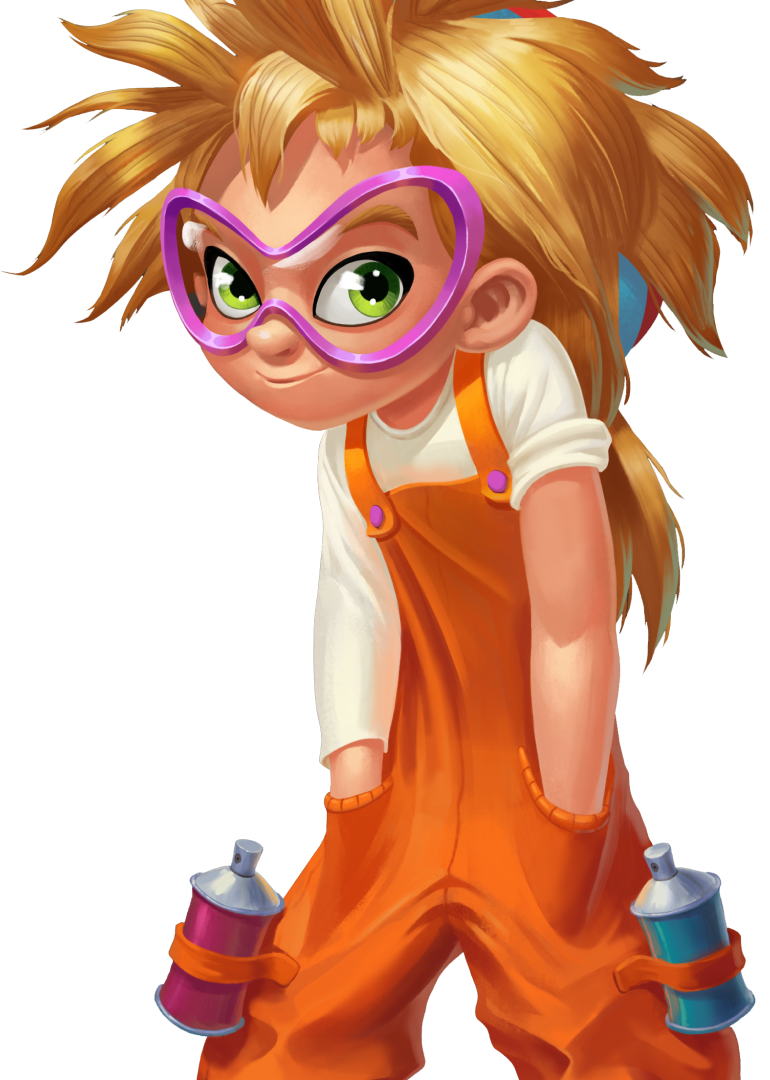
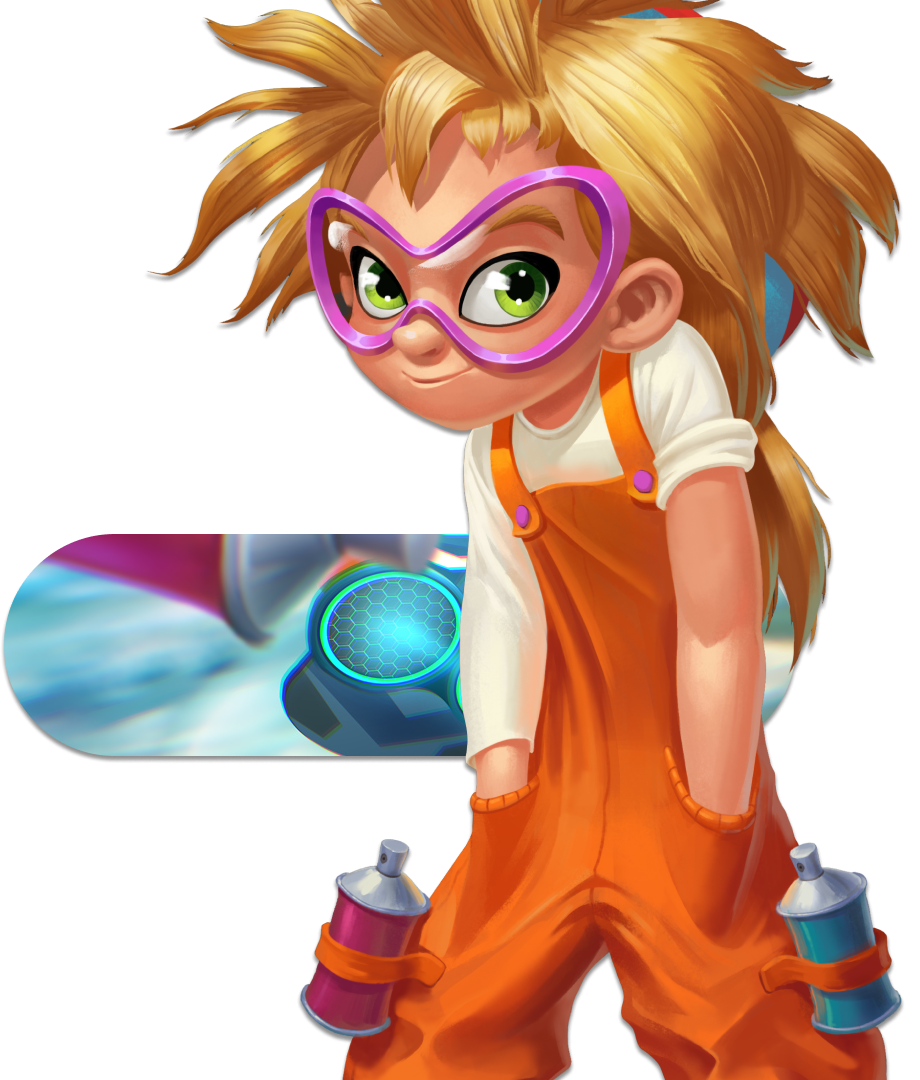
Complete team section

diff --git a/css/main.css b/css/main.css
@@ -892,7 +892,7 @@ img {
   border-color: #fff;
 }
 
-.main.even-section .menu-toggler-btn span {
+.main.even-section .js-open-menu-btn span {
   color: #4b4b4b;
 }
 
@@ -930,9 +930,25 @@ img {
   color: #4b4b4b;
 }
 
+.section:nth-child(even) .big-text {
+  color: #f3f9fb;
+}
+
 .section .pp-tableCell {
   display: block;
   width: unset;
+}
+
+.section::before {
+  content: "";
+  position: absolute;
+  top: 0;
+  bottom: 0;
+  right: 0;
+  left: 0;
+  background-repeat: no-repeat;
+  background-size: contain;
+  z-index: 2;
 }
 
 .section-top {
@@ -1056,17 +1072,46 @@ img {
   font-weight: 900;
 }
 
-#about {
+#about .big-text {
+  font-size: 220px;
+  color: #f3f9fb;
+  top: 60%;
+}
+
+#about::before {
   background-image: url("../img/about-bg.png");
   background-repeat: no-repeat;
   background-size: contain;
   background-position: center center;
 }
 
-#about .big-text {
-  font-size: 220px;
-  color: #f3f9fb;
-  top: 60%;
+#about .section-img {
+  right: 180px;
+}
+
+#team::before {
+  background-image: url("../img/team-bg.png");
+  background-repeat: no-repeat;
+  background-size: cover;
+  background-position: center center;
+}
+
+#team .section-img {
+  right: 225px;
+}
+
+#team .section-content {
+  max-width: 350px;
+}
+
+#team .play-btn {
+  position: absolute;
+  width: 120px;
+  height: 120px;
+  top: 54%;
+  left: 180px;
+  background-color: #fff;
+  border-radius: 50%;
 }
 
 .section-menu {
@@ -1090,7 +1135,7 @@ img {
   color: #fff;
 }
 
-.home {
+.home::before {
   background-image: url("../img/main-bg.png");
   background-repeat: no-repeat;
   background-size: contain;
@@ -1298,10 +1343,20 @@ img {
           align-items: center;
   width: 100%;
   max-width: 1780px;
+}
+
+.heroes__item::before {
+  content: "";
+  position: absolute;
+  top: 0;
+  bottom: 0;
+  right: 0;
+  left: 0;
   background-image: url("../img/hero-bg1.png");
   background-repeat: no-repeat;
   background-size: contain;
   background-position: center left 30%;
+  z-index: 2;
 }
 
 .heroes__item:nth-child(even) {
@@ -1317,7 +1372,7 @@ img {
   color: #f3f9fb;
 }
 
-.heroes__item:nth-child(2) {
+.heroes__item:nth-child(2)::before {
   background-image: url("../img/hero-bg2.png");
   background-position: center center;
 }
@@ -1326,7 +1381,7 @@ img {
   right: 225px;
 }
 
-.heroes__item:nth-child(3) {
+.heroes__item:nth-child(3)::before {
   background-image: url("../img/hero-bg3.png");
   background-position: center left 40%;
 }
@@ -1335,11 +1390,11 @@ img {
   right: 50px;
 }
 
-.heroes__item:nth-child(4) {
+.heroes__item:nth-child(4)::before {
   background-image: url("../img/hero-bg4.png");
 }
 
-.heroes__item:nth-child(5) {
+.heroes__item:nth-child(5)::before {
   background-image: url("../img/hero-bg5.png");
 }
 

diff --git a/index.html b/index.html
@@ -19,7 +19,7 @@
         </ul>
       </div>
       <div id="fullpage">
-        <section class="section home">
+        <section id="main" class="section home">
           <div class="section-top">
             <div class="language-box">
               <a href="#" class="language__item active">RU</a>
@@ -255,6 +255,48 @@
             <div class="img-wrapper">
               <img src="img/icons/mouse-r.svg" alt="mouse" />
             </div>
+          </div>
+        </section>
+
+        <section id="team" class="section team">
+          <h2 class="big-text">команда</h2>
+          <div class="section-top">
+            <div class="language-box">
+              <a href="#" class="language__item active">RU</a>
+              <a href="#" class="language__item">EN</a>
+            </div>
+            <button type="button" class="js-open-menu-btn menu-toggler-btn">
+              <div class="img-wrapper">
+                <img src="img/icons/burger.svg" alt="burger" />
+              </div>
+              <span>
+                меню
+              </span>
+            </button>
+          </div>
+          <div class="section-content">
+            <h3>наша команда</h3>
+            <p>
+              Мир далёкого будущего полон противоречий. Наука и техника шагнули
+              далеко вперёд, и полёты в космос стали немногим сложнее, чем
+              посещение других стран для людей из XXI века, а пришельцы с других
+              планет стали так же привычны, как для нас туристы. Технологии
+              достигли столь высокой степени развития, что максимально облегчили
+              жизнь, наполнив её всевозможными устройствами и гаджетами...
+            </p>
+            <a href="#">подробнее</a>
+          </div>
+          <div class="scroll-message">
+            <span>ВНИЗ</span>
+            <div class="img-wrapper">
+              <img src="img/icons/mouse-r.svg" alt="mouse" />
+            </div>
+          </div>
+          <div class="img-wrapper section-img">
+            <button type="button" class="play-btn img-wrapper">
+              <img src="img/icons/play.svg" alt="play" />
+            </button>
+            <img src="img/team-img.png" alt="team img" />
           </div>
         </section>
       </div>

diff --git a/scss/blocks/_slider.scss b/scss/blocks/_slider.scss
@@ -25,10 +25,20 @@
   align-items: center;
   width: 100%;
   max-width: 1780px;
-  background-image: url("../img/hero-bg1.png");
-  background-repeat: no-repeat;
-  background-size: contain;
-  background-position: center left 30%;
+
+  &::before {
+    content: "";
+    position: absolute;
+    top: 0;
+    bottom: 0;
+    right: 0;
+    left: 0;
+    background-image: url("../img/hero-bg1.png");
+    background-repeat: no-repeat;
+    background-size: contain;
+    background-position: center left 30%;
+    z-index: 2;
+  }
 
   &:nth-child(even) {
     background-color: #fff;
@@ -45,25 +55,33 @@
   }
 
   &:nth-child(2) {
-    background-image: url("../img/hero-bg2.png");
-    background-position: center center;
+    &::before {
+      background-image: url("../img/hero-bg2.png");
+      background-position: center center;
+    }
     .section-img {
       right: 225px;
     }
   }
 
   &:nth-child(3) {
-    background-image: url("../img/hero-bg3.png");
-    background-position: center left 40%;
+    &::before {
+      background-image: url("../img/hero-bg3.png");
+      background-position: center left 40%;
+    }
     .section-img {
       right: 50px;
     }
   }
   &:nth-child(4) {
-    background-image: url("../img/hero-bg4.png");
+    &::before {
+      background-image: url("../img/hero-bg4.png");
+    }
   }
   &:nth-child(5) {
-    background-image: url("../img/hero-bg5.png");
+    &::before {
+      background-image: url("../img/hero-bg5.png");
+    }
     .section-img {
       right: 225px;
     }

diff --git a/scss/blocks/_basics.scss b/scss/blocks/_basics.scss
@@ -213,7 +213,7 @@ img {
         border-color: #fff;
       }
     }
-    .menu-toggler-btn {
+    .js-open-menu-btn {
       span {
         color: $text-color;
       }
@@ -253,10 +253,26 @@ img {
         color: $text-color;
       }
     }
+    .big-text {
+      color: #f3f9fb;
+    }
   }
   .pp-tableCell {
     display: block;
     width: unset;
+  }
+  &::before {
+    content: "";
+    position: absolute;
+    top: 0;
+    bottom: 0;
+    right: 0;
+    left: 0;
+    background: {
+      repeat: no-repeat;
+      size: contain;
+    }
+    z-index: 2;
   }
 }
 
@@ -361,10 +377,42 @@ img {
     color: #f3f9fb;
     top: 60%;
   }
-  background: {
-    image: url("../img/about-bg.png");
-    repeat: no-repeat;
-    size: contain;
-    position: center center;
+  &::before {
+    background: {
+      image: url("../img/about-bg.png");
+      repeat: no-repeat;
+      size: contain;
+      position: center center;
+    }
+  }
+  .section-img {
+    right: 180px;
+  }
+}
+
+#team {
+  &::before {
+    background: {
+      image: url("../img/team-bg.png");
+      repeat: no-repeat;
+      size: cover;
+      position: center center;
+    }
+  }
+
+  .section-img {
+    right: 225px;
+  }
+  .section-content {
+    max-width: 350px;
+  }
+  .play-btn {
+    position: absolute;
+    width: 120px;
+    height: 120px;
+    top: 54%;
+    left: 180px;
+    background-color: #fff;
+    border-radius: 50%;
   }
 }

diff --git a/scss/blocks/_home.scss b/scss/blocks/_home.scss
@@ -16,11 +16,13 @@
 }
 
 .home {
-  background: {
-    image: url("../img/main-bg.png");
-    repeat: no-repeat;
-    size: contain;
-    position: top left 10%;
+  &::before {
+    background: {
+      image: url("../img/main-bg.png");
+      repeat: no-repeat;
+      size: contain;
+      position: top left 10%;
+    }
   }
 }
 
